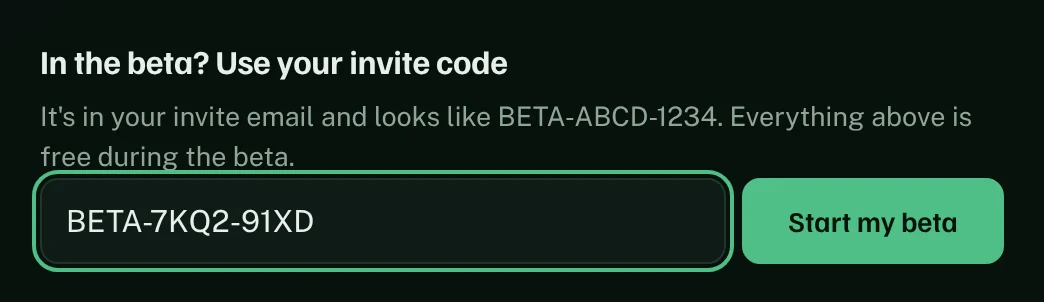
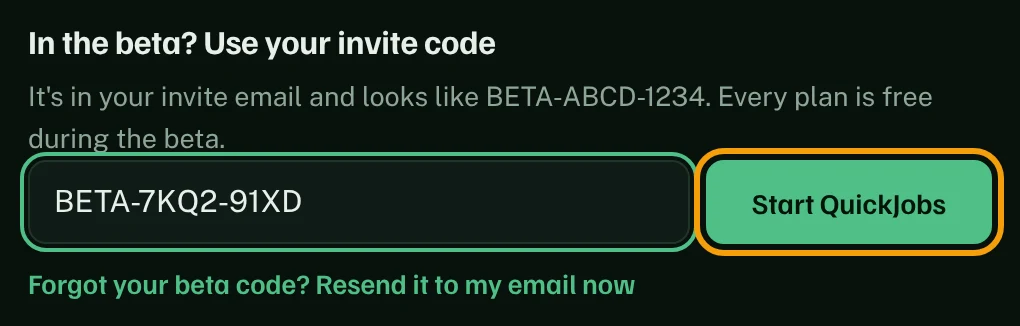
After joining the waitlist: Add to Chrome is the next step, with the install guide alongside
- Home page: the two questions after joining are gone. The panel says the beta code is on its way and offers
  one big Add to Chrome button (halo, light sweep, nudging arrow) with the three steps that follow.
- Pressing it opens the Chrome Web Store listing in a new tab and turns this tab into the install guide.
  On a phone it goes to the guide's send-to-computer box instead.
- Install page, arriving from that button: says what to do in the store tab, shows the email to sign in with,
  marks step 1 as current, and moves on to step 2 when the person comes back to the tab.
- Install guide brought up to date with today's extension: Continue with email, Start QuickJobs, beta code
  wording, fresh screenshots of the sign-in, code and beta-code screens; store link is the listing's own address.

Claude-Session: https://claude.ai/code/session_01NjF5BgXvLRmcLrxNLWn9yc

Changed region(s): [[0.0, 0.0894, 1.0, 0.9238]]

diff --git a/site/install.html b/site/install.html
@@ -546,6 +546,22 @@ html.menu-open{overflow:hidden}
 
 /* store button */
 .store-cta{display:flex;flex-direction:column;align-items:flex-start;gap:14px;max-width:640px}
+/* Arrived from Add to Chrome on the home page: what to do in the store tab, and which step comes next here */
+.follow{display:flex;flex-direction:column;gap:10px;max-width:640px;margin-bottom:22px;padding:20px 22px;border:1px solid rgba(79,191,134,.45);border-radius:16px;background:var(--fern-soft)}
+.follow-k{display:flex;align-items:center;gap:9px;font-size:.78rem!important;font-weight:600;letter-spacing:.08em;text-transform:uppercase;color:var(--fern)!important}
+.follow-dot{width:8px;height:8px;border-radius:50%;background:var(--fern);box-shadow:0 0 0 4px rgba(79,191,134,.2)}
+@media (prefers-reduced-motion:no-preference){.follow-dot{animation:follow-pulse 1.6s ease-in-out infinite}@keyframes follow-pulse{50%{opacity:.35}}}
+.follow h3{font-family:var(--display);font-size:1.35rem;letter-spacing:-.01em}
+.follow p{color:var(--muted)}
+.follow b{color:var(--fg);font-weight:600}
+.follow-facts{list-style:none;margin:4px 0 0;padding:0;display:flex;flex-direction:column;gap:8px}
+.follow-facts li{display:flex;align-items:flex-start;gap:10px;font-size:.95rem;color:var(--muted)}
+.follow-facts li b{overflow-wrap:anywhere}
+.follow-facts svg{width:18px;height:18px;flex:none;color:var(--fern);margin-top:2px}
+.from-join .store-btn{background:transparent;color:var(--fern);border:1px solid rgba(79,191,134,.45);box-shadow:none;height:50px;font-size:1rem}
+.inst>li.now .inst-t::before{background:var(--fern);border-color:var(--fern);color:var(--fern-ink);box-shadow:0 0 0 5px rgba(79,191,134,.18)}
+.inst>li.now .inst-t h4::after{content:"You are here";margin-left:10px;vertical-align:middle;font:600 .7rem var(--body);letter-spacing:.06em;text-transform:uppercase;color:var(--fern-ink);background:var(--fern);padding:3px 8px;border-radius:999px}
+.inst>li.done .inst-t::before{content:"✓";background:var(--fern-soft);border-color:rgba(79,191,134,.45);color:var(--fern)}
 .store-btn{height:58px;padding:0 26px;font-size:1.1rem;gap:12px;text-decoration:none}
 .store-btn svg{width:26px;height:26px}
 .sr{position:absolute;width:1px;height:1px;overflow:hidden;clip:rect(0 0 0 0);white-space:nowrap}
@@ -619,7 +635,7 @@ html.menu-open{overflow:hidden}
       <div class="sec-head">
         <span class="eyebrow">For beta testers</span>
         <h2 id="install-h">Add QuickJobs to Chrome.</h2>
-        <p>QuickJobs is in the Chrome Web Store. Add it in one click, sign in with the email your invite was sent to, and run your first search. It takes about three minutes.</p>
+        <p>QuickJobs is in the Chrome Web Store. Add it in one click, sign in with the email you joined with, and run your first search. It takes about three minutes.</p>
       </div>
       <div class="phone-box" id="phone-box" hidden>
         <b><svg viewBox="0 0 24 24" aria-hidden="true"><rect x="4.5" y="5" width="15" height="10" rx="1.5" fill="none" stroke="currentColor" stroke-width="1.8"/><path d="M2.5 18.5h19" stroke="currentColor" stroke-width="1.8" stroke-linecap="round"/></svg>You're on a phone</b>
@@ -627,25 +643,35 @@ html.menu-open{overflow:hidden}
         <button class="btn btn-p" type="button" id="send-self">Send this page to my computer</button>
         <p class="ok" id="send-ok" role="status"></p>
       </div>
+      <div class="follow" id="follow" hidden>
+        <p class="follow-k"><span class="follow-dot"></span><span id="follow-k">Step 1 of 4 · in your other tab</span></p>
+        <h3 id="follow-h">The Chrome Web Store opened in a new tab.</h3>
+        <p id="follow-p">Click <b>Add to Chrome</b> there, then <b>Add extension</b>. Then come back to this tab: the next steps are below.</p>
+        <ul class="follow-facts">
+          <li id="follow-email-li" hidden><svg viewBox="0 0 24 24" aria-hidden="true"><rect x="3" y="5" width="18" height="14" rx="2" fill="none" stroke="currentColor" stroke-width="1.8"/><path d="m4 7 8 6 8-6" fill="none" stroke="currentColor" stroke-width="1.8" stroke-linejoin="round"/></svg><span>Sign in with <b id="follow-email"></b></span></li>
+          <li id="follow-code-li" hidden><svg viewBox="0 0 24 24" aria-hidden="true"><path d="M7 11V8a5 5 0 0 1 10 0v3M6 11h12v9H6z" fill="none" stroke="currentColor" stroke-width="1.8" stroke-linejoin="round"/></svg><span>Your beta code is in your inbox: search for “QuickJobs beta code”</span></li>
+        </ul>
+      </div>
       <div class="store-cta">
-        <a class="btn btn-p store-btn" href="https://chrome.google.com/webstore/detail/fehahcmdnhepmaalgbagnlhdefikamae" target="_blank" rel="noopener"><svg viewBox="2 10 108 108" aria-hidden="true"><path d="M95 33 A44 44 0 1 0 81 97 L74 87 A33 33 0 1 1 86 40 Z" fill="currentColor"/><path d="M56 36 L80 39 L70 56 L89 58 L100 116 L71 72 L47 71 Z" fill="currentColor"/></svg>Add to Chrome<span class="sr"> (opens the Chrome Web Store in a new tab)</span></a>
-        <p class="dl-note">Opens the Chrome Web Store in a new tab. You'll need Chrome on a computer and your invite email, which has your invite code.</p>
+        <a class="btn btn-p store-btn" href="https://chromewebstore.google.com/detail/quickjobs-beta/fehahcmdnhepmaalgbagnlhdefikamae" target="_blank" rel="noopener"><svg viewBox="2 10 108 108" aria-hidden="true"><path d="M95 33 A44 44 0 1 0 81 97 L74 87 A33 33 0 1 1 86 40 Z" fill="currentColor"/><path d="M56 36 L80 39 L70 56 L89 58 L100 116 L71 72 L47 71 Z" fill="currentColor"/></svg>Add to Chrome<span class="sr"> (opens the Chrome Web Store in a new tab)</span></a>
+        <p class="dl-note" id="dl-note">Opens the Chrome Web Store in a new tab. You'll need Chrome on a computer and the email with your beta code.</p>
       </div>
 
       <div class="guide" id="guide">
         <div class="guide-h"><h3>After you add it</h3></div>
         <ol class="inst">
           <li><div class="inst-t" data-n="1"><h4>Add it from the store</h4><p>On the QuickJobs page in the Chrome Web Store, click <b>Add to Chrome</b>, then <b>Add extension</b>. Chrome adds it straight away.</p></div></li>
-          <li><div class="inst-t" data-n="2"><h4>Pin it and sign in</h4><p>Click the puzzle-piece icon in Chrome's toolbar and pin QuickJobs. Click its icon, enter the email your invite was sent to, then the 6-digit code we email you.</p></div>
-            <div class="inst-v pair"><div class="shot"><img src="shots/install/i6-email.webp?v=1110" width="720" height="940" alt="The QuickJobs popup with an email typed and Send me a code highlighted." loading="lazy"></div><div class="shot"><img src="shots/install/i7-code.webp?v=1110" width="720" height="940" alt="The code screen with Sign in highlighted." loading="lazy"></div></div></li>
-          <li><div class="inst-t" data-n="3"><h4>Set up and enter your invite code</h4><p>Upload your CV, pick your roles, cities and job sites, then type the invite code from your email and click <b>Start my beta</b>.</p></div>
-            <div class="inst-v"><div class="shot"><img src="shots/install/i10-invite.webp?v=1110" width="1044" height="302" alt="The invite code box with a code typed in and Start my beta." loading="lazy"></div></div></li>
+          <li><div class="inst-t" data-n="2"><h4>Pin it and sign in</h4><p>Click the puzzle-piece icon in Chrome's toolbar and pin QuickJobs. Click its icon, type the email you joined with and click <b>Continue with email</b>, then enter the 6-digit code we email you.</p></div>
+            <div class="inst-v pair"><div class="shot"><img src="shots/install/i6-email.webp?v=1119" width="720" height="806" alt="The QuickJobs popup with an email typed and Continue with email highlighted." loading="lazy"></div><div class="shot"><img src="shots/install/i7-code.webp?v=1119" width="720" height="960" alt="The Check your email screen with the 6-digit code typed and Continue highlighted." loading="lazy"></div></div></li>
+          <li><div class="inst-t" data-n="3"><h4>Set up and enter your beta code</h4><p>QuickJobs walks you through four short steps: upload your CV, choose your roles, city and job sites, and sign in to your job sites in Chrome. On the last step, type the beta code from your email and click <b>Start QuickJobs</b>.</p></div>
+            <div class="inst-v"><div class="shot"><img src="shots/install/i10-invite.webp?v=1119" width="1020" height="326" alt="The beta code box with a code typed in and Start QuickJobs highlighted." loading="lazy"></div></div></li>
           <li><div class="inst-t" data-n="4"><h4>Click Run now</h4><p>Sign in to your job sites in Chrome as you normally do, then click the QuickJobs icon and <b>Run now</b>. After this first run, it runs by itself every day.</p></div>
             <div class="inst-v narrow"><div class="shot"><img src="shots/install/i12-runnow.webp?v=1110" width="720" height="694" alt="The popup ready for the first run, with Run now highlighted." loading="lazy"></div></div></li>
         </ol>
         <details class="inst-help"><summary>Something not working?</summary><ul>
           <li><b>Can't see the QuickJobs icon:</b> click the puzzle-piece icon at the top right of Chrome and pin QuickJobs.</li>
-          <li><b>No code email:</b> check Spam, wait a minute, then click Send a new code.</li>
+          <li><b>No sign-in code:</b> check Spam or Promotions, wait a minute, then click Send a new code.</li>
+          <li><b>No beta code:</b> search your inbox for “QuickJobs beta code”. On the last setup step, click <b>Forgot your beta code?</b> and we'll send it again.</li>
           <li><b>Store page won't open:</b> make sure you're using Google Chrome on a computer, then try the button again.</li>
           <li><b>Updating:</b> Chrome updates QuickJobs for you automatically.</li></ul></details>
       </div>
@@ -805,6 +831,38 @@ html.menu-open{overflow:hidden}
   // someone who joined before sees their status, not the form
   const prev = store.get('qj-joined');
   if (prev?.email) $$('.joinbox').forEach((b) => showDone(b, prev.email, { already: true, ref_code: prev.ref_code, code_coming: !!prev.code_coming }));
+})();
+</script>
+
+<script>
+/* Arrived from "Add to Chrome" on the home page (?from=join): the store is open in the other tab. Say what to do there,
+   mark step 1 as the current one, and when they come back to this tab, move them on to step 2. */
+(() => {
+  if (new URLSearchParams(location.search).get('from') !== 'join') return;
+  const phone = /Android|iPhone|iPad|iPod|Mobile/i.test(navigator.userAgent) || (matchMedia('(pointer: coarse)').matches && Math.min(screen.width, screen.height) < 820);
+  if (phone) return;   // phones get the send-to-computer box instead
+  const $ = (id) => document.getElementById(id);
+  let joined = null; try { joined = JSON.parse(localStorage.getItem('qj-joined')); } catch (e) {}
+  const box = $('follow'); if (!box) return;
+  box.hidden = false; document.documentElement.classList.add('from-join');
+  if (joined?.email) { $('follow-email').textContent = joined.email; $('follow-email-li').hidden = false; }
+  if (joined?.code_coming) $('follow-code-li').hidden = false;
+  const btn = document.querySelector('.store-btn'); if (btn) btn.firstChild && btn.childNodes.forEach((n) => { if (n.nodeType === 3 && /Add to Chrome/.test(n.nodeValue)) n.nodeValue = 'Store tab didn\u2019t open? Open it again'; });
+  $('dl-note').textContent = 'Only if the store tab didn\u2019t open, or you closed it.';
+  const steps = [...document.querySelectorAll('.inst > li')];
+  const mark = (i) => steps.forEach((li, k) => { li.classList.toggle('now', k === i); li.classList.toggle('done', k < i); });
+  mark(0);
+  let away = false;
+  document.addEventListener('visibilitychange', () => {
+    if (document.hidden) { away = true; return; }
+    if (!away || box.dataset.step === '2') return;
+    box.dataset.step = '2'; mark(1);
+    $('follow-k').textContent = 'Step 2 of 4 \u00b7 here in Chrome';
+    $('follow-h').textContent = 'Added it? Now pin QuickJobs and sign in.';
+    $('follow-p').innerHTML = 'Click the puzzle-piece icon at the top right of Chrome, pin <b>QuickJobs</b>, then click its icon. The steps are just below.';
+    const reduce = matchMedia('(prefers-reduced-motion: reduce)').matches;
+    steps[1]?.scrollIntoView({ behavior: reduce ? 'auto' : 'smooth', block: 'center' });
+  });
 })();
 </script>
 

diff --git a/site/index.html b/site/index.html
@@ -439,9 +439,28 @@ details p{color:var(--muted);padding:0 0 22px;max-width:40em}
 .done h3 .ck svg{width:15px;height:15px}
 .done p{color:var(--muted);font-size:.96rem}
 .done .pos{font-family:var(--display);font-weight:700;color:var(--fg)}
-.qs{display:flex;flex-direction:column;gap:14px}
-.qs fieldset{border:0;margin:0;padding:0;display:flex;flex-direction:column;gap:8px}
-.qs legend{font-size:.9rem;font-weight:600;color:var(--fg);margin-bottom:8px;padding:0}
+/* After joining: one next step, Add to Chrome. A soft halo, a light sweep and a nudging arrow draw the eye to it. */
+.next{display:flex;flex-direction:column;gap:14px;padding-top:16px;border-top:1px solid var(--line)}
+.next-k{font-size:.78rem;font-weight:600;letter-spacing:.08em;text-transform:uppercase;color:var(--fern)}
+.next-k i{font-style:normal;color:var(--faint);margin:0 4px}
+.add-btn{position:relative;overflow:hidden;display:flex;align-items:center;gap:14px;width:100%;min-height:68px;padding:12px 22px;border-radius:14px;text-decoration:none;text-align:left;
+  box-shadow:0 0 0 4px rgba(79,191,134,.16),0 16px 40px -12px rgba(79,191,134,.75)}
+.add-btn:hover{box-shadow:0 0 0 6px rgba(79,191,134,.2),0 18px 46px -12px rgba(79,191,134,.85)}
+.add-logo{width:30px;height:30px;flex:none}
+.add-t{display:flex;flex-direction:column;gap:2px;flex:1;min-width:0;white-space:normal}
+@media (max-width:420px){.add-btn{gap:12px;padding:12px 16px}.add-t b{font-size:1.12rem}}
+.add-t b{font-family:var(--display);font-size:1.25rem;font-weight:700;letter-spacing:-.01em;line-height:1.15}
+.add-t small{font-size:.86rem;font-weight:500;opacity:.78}
+.add-go{width:24px;height:24px;flex:none}
+.add-btn::after{content:"";position:absolute;inset:0;background:linear-gradient(105deg,transparent 35%,rgba(255,255,255,.38) 50%,transparent 65%);transform:translateX(-130%);pointer-events:none}
+@media (prefers-reduced-motion:no-preference){.add-btn::after{animation:qj-sheen 4.5s ease-in-out .8s infinite}.add-go{animation:add-nudge 1.8s ease-in-out infinite}
+  .add-btn:hover .add-go{animation:none;transform:translateX(4px)}
+  @keyframes add-nudge{0%,60%,100%{transform:translateX(0)}30%{transform:translateX(5px)}}}
+.next-steps{margin:0;padding:0;list-style:none;counter-reset:ns;display:flex;flex-direction:column;gap:8px}
+.next-steps li{counter-increment:ns;display:flex;align-items:baseline;gap:10px;color:var(--muted);font-size:.95rem}
+.next-steps li::before{content:counter(ns);flex:none;width:22px;height:22px;border-radius:50%;border:1px solid var(--line-2);display:inline-grid;place-items:center;font:700 .75rem var(--display);color:var(--fg);transform:translateY(-1px)}
+.next-steps b{color:var(--fg);font-weight:600;overflow-wrap:anywhere}
+.next-note{font-size:.88rem!important;color:var(--faint)!important}
 .chips{display:flex;flex-wrap:wrap;gap:8px}
 .chips label{position:relative}
 .chips input{position:absolute;opacity:0;inset:0;cursor:pointer;margin:0}
@@ -1045,30 +1064,16 @@ html.menu-open{overflow:hidden}
   <div class="done" tabindex="-1">
     <h3><span class="ck"><svg><use href="#i-check"/></svg></span><span data-title>You're on the list.</span></h3>
     <p data-sub>We'll email <b data-email></b> when your invite is ready.</p>
-    <form class="qs" data-qs>
-      <p style="color:var(--fg);font-weight:600">Two quick questions, so we invite the right people first:</p>
-      <fieldset><legend>Years of experience</legend>
-        <div class="chips">
-          <label><input type="radio" name="exp" value="0-2"><span>0–2</span></label>
-          <label><input type="radio" name="exp" value="2-5"><span>2–5</span></label>
-          <label><input type="radio" name="exp" value="5-10"><span>5–10</span></label>
-          <label><input type="radio" name="exp" value="10+"><span>10+</span></label>
-        </div>
-      </fieldset>
-      <fieldset><legend>Where do you look for jobs now?</legend>
-        <div class="chips">
-          <label><input type="checkbox" name="sites" value="naukri"><span>Naukri</span></label>
-          <label><input type="checkbox" name="sites" value="linkedin"><span>LinkedIn</span></label>
-          <label><input type="checkbox" name="sites" value="iimjobs"><span>iimjobs</span></label>
-          <label><input type="checkbox" name="sites" value="instahyre"><span>Instahyre</span></label>
-          <label><input type="checkbox" name="sites" value="foundit"><span>Foundit</span></label>
-          <label><input type="checkbox" name="sites" value="hirist"><span>Hirist</span></label>
-          <label><input type="checkbox" name="sites" value="shine"><span>Shine</span></label>
-          <label><input type="checkbox" name="sites" value="other"><span>Somewhere else</span></label>
-        </div>
-      </fieldset>
-      <div><button class="btn btn-g btn-s" type="submit">Send answers</button></div>
-    </form>
+    <div class="next">
+      <span class="next-k">Next step <i>·</i> about 3 minutes</span>
+      <a class="btn btn-p add-btn" data-add href="https://chromewebstore.google.com/detail/quickjobs-beta/fehahcmdnhepmaalgbagnlhdefikamae" target="_blank" rel="noopener"><svg class="add-logo" viewBox="2 10 108 108" aria-hidden="true"><path d="M95 33 A44 44 0 1 0 81 97 L74 87 A33 33 0 1 1 86 40 Z" fill="currentColor"/><path d="M56 36 L80 39 L70 56 L89 58 L100 116 L71 72 L47 71 Z" fill="currentColor"/></svg><span class="add-t"><b data-add-label>Add to Chrome</b><small data-add-sub>Free during the beta</small></span><svg class="add-go" viewBox="0 0 24 24" aria-hidden="true"><path d="M5 12h13m0 0-5-5m5 5-5 5" fill="none" stroke="currentColor" stroke-width="2.2" stroke-linecap="round" stroke-linejoin="round"/></svg><span class="sr" data-add-sr> (opens the Chrome Web Store in a new tab, and the install guide here)</span></a>
+      <ol class="next-steps">
+        <li><span><b>Add to Chrome</b> on the store page that opens</span></li>
+        <li><span>Sign in with <b data-email-2></b></span></li>
+        <li><span>Enter the <b>beta code</b> from your email</span></li>
+      </ol>
+      <p class="next-note" data-add-note>The store opens in a new tab. This tab turns into a step-by-step guide, so you can follow along.</p>
+    </div>
   </div>
 </template>
 
@@ -1224,32 +1229,31 @@ html.menu-open{overflow:hidden}
     await doc.set({ ...(old || {}), email, ref_code, referred_by: old?.referred_by ?? refBy, source, joined_at: old?.joined_at || new Date().toISOString() });
     return { ref_code, position: null, already: !!old };
   }
-  async function details(code, exp, sites) {
-    if (PROD) return rpc('waitlist_details', { p_ref_code: code, p_experience: exp, p_sites: sites });
-    const doc = await previewDoc(); await doc.update({ experience: exp, sites, details_at: new Date().toISOString() });
-  }
 
   // ---------- the two forms ----------
+  // Phones can't add a Chrome extension: there the button goes to the install guide, which helps send it to a computer.
+  const onPhone = /Android|iPhone|iPad|iPod|Mobile/i.test(navigator.userAgent) || (matchMedia('(pointer: coarse)').matches && Math.min(screen.width, screen.height) < 820);
   function showDone(box, email, r) {
     const n = $('#done-tpl').content.firstElementChild.cloneNode(true);
     $('[data-email]', n).textContent = email;
+    $('[data-email-2]', n).textContent = email;
     if (r.code_coming) {
       // The server emails the beta code on its own as soon as the sign-up is saved (once; nothing here can send it again).
       const b = document.createElement('b'); b.textContent = email;
-      $('[data-title]', n).textContent = r.already ? "You're in." : "You're in. Check your inbox.";
-      $('[data-sub]', n).replaceChildren(r.already ? 'We sent your beta code to ' : 'Your beta code is on its way to ', b,
-        r.already ? '. Search your inbox for “QuickJobs beta code”.' : '. It usually arrives within a minute. Not there? Check Promotions or Spam.');
+      $('[data-title]', n).textContent = r.already ? "You're in." : "You're in. Your beta code is on its way.";
+      $('[data-sub]', n).replaceChildren(r.already ? 'We sent your beta code to ' : 'Check ', b,
+        r.already ? '. Search your inbox for \u201cQuickJobs beta code\u201d.' : ' in a minute (or Promotions, or Spam). While it comes, add QuickJobs to Chrome.');
     } else if (r.already) $('[data-title]', n).textContent = "You're already on the list.";
-    const code = r.ref_code;
-    const qs = $('[data-qs]', n);
-    if (!code || r.already) qs.remove();
-    else qs.addEventListener('submit', async (e) => {
-      e.preventDefault();
-      const exp = qs.querySelector('input[name=exp]:checked')?.value ?? null;
-      const sites = $$('input[name=sites]:checked', qs).map((i) => i.value);
-      const b = $('button', qs); b.disabled = true; b.textContent = 'Saving…';
-      try { await details(code, exp, sites); qs.innerHTML = '<p style="color:var(--fern)">Thanks. That helps us invite the right people first.</p>'; }
-      catch { b.disabled = false; b.textContent = 'Try again'; }
+    const add = $('[data-add]', n);
+    if (onPhone) {
+      add.href = 'install?from=join'; add.removeAttribute('target');
+      $('[data-add-label]', n).textContent = 'Get it on your laptop';
+      $('[data-add-sub]', n).textContent = 'Chrome extensions install on a computer';
+      $('[data-add-sr]', n).remove();
+      $('[data-add-note]', n).textContent = 'Next, we\u2019ll help you send the install link to your laptop or desktop.';
+    } else add.addEventListener('click', () => {
+      // The store opens in a new tab (the link's own target); this tab becomes the step-by-step guide to follow alongside it.
+      setTimeout(() => location.assign('install?from=join'), 80);
     });
     box.replaceChildren(n); n.focus({ preventScroll: true });
   }
